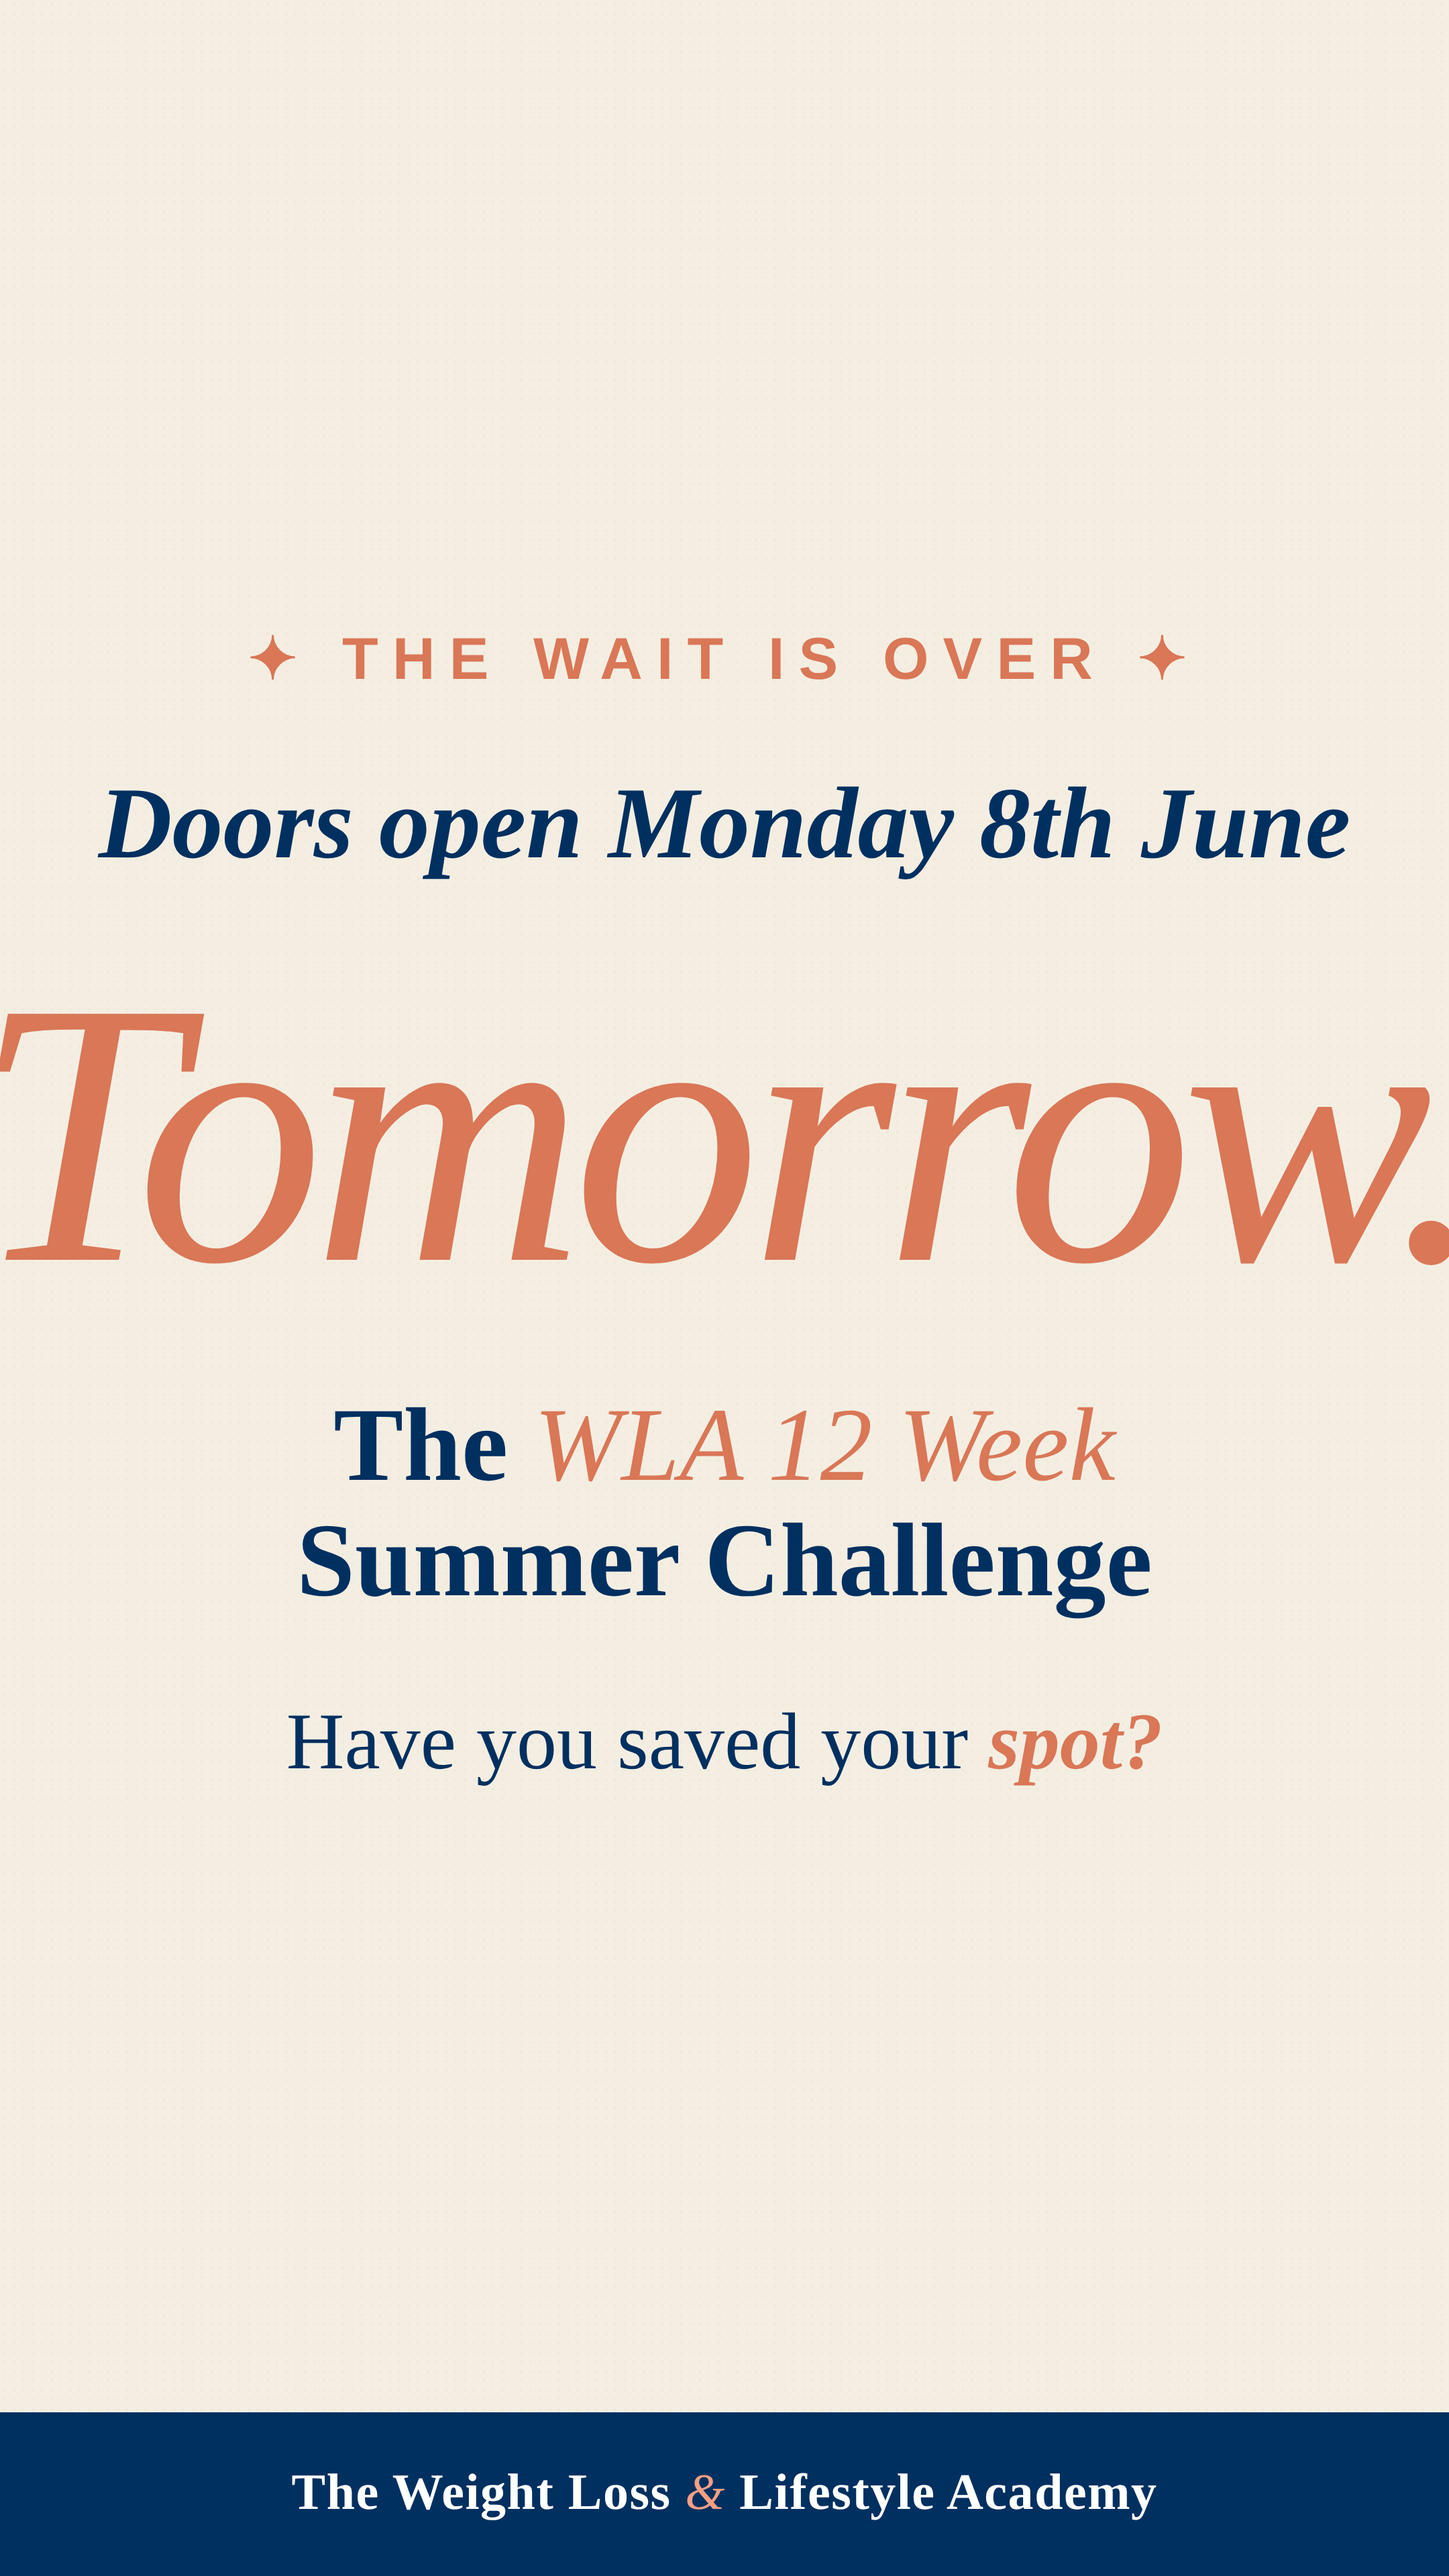
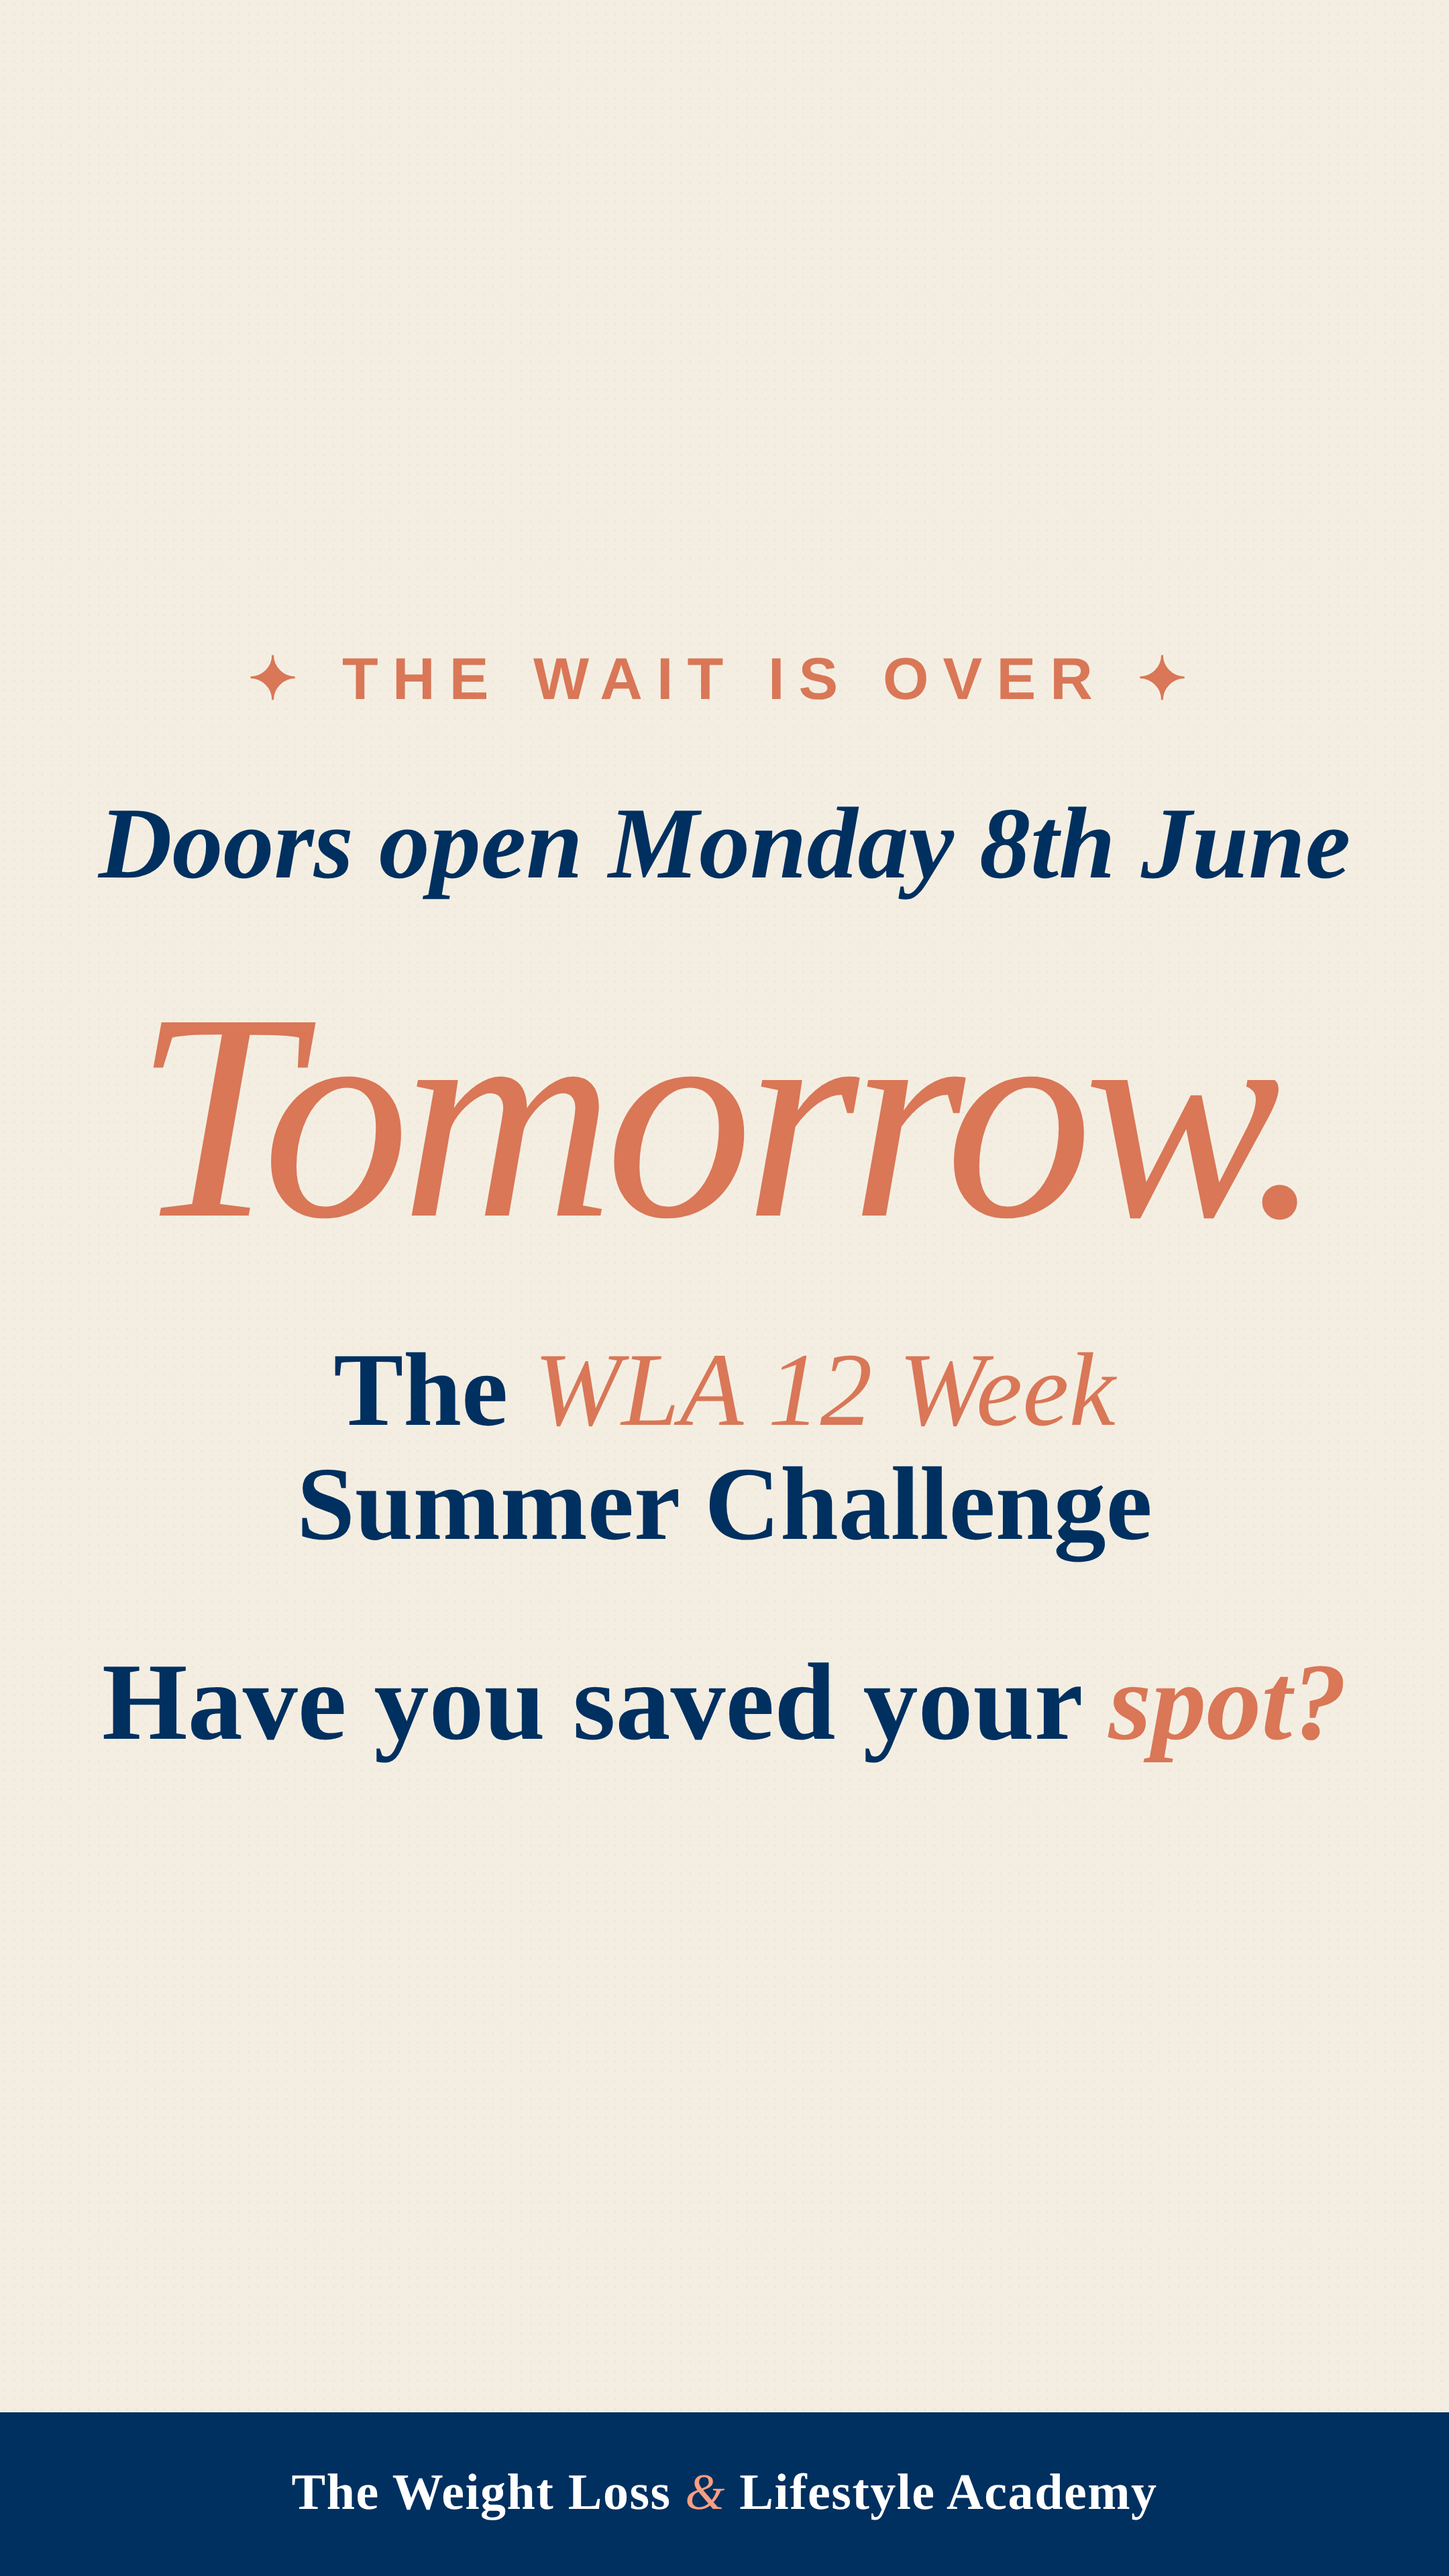
summer-challenge-stories: readability pass v2
- 01-tomorrow: 'Tomorrow.' 280 -> 220 (off the edges); 'Have you saved your spot?' 60 -> 82 + weight 500 -> 700
- 02-spots-left: 'Filling Fast' 50 -> 72; '50' 400 -> 360 (fits cleaner); 'Doors close at midnight' 70 -> 92; 'Once they're gone, they're gone' 60 -> 78 + weight 500 -> 700
- 03-still-time: checkpills 58 -> 72 (tick 64 -> 78, font 36 -> 44); 'Lock in your spot now' 68 -> 92
- 04-tap-to-join: 'Less than 50 spots left.' 64 -> 80; 'Doors close at midnight.' 56 -> 72 + weight 700; swap outline arrow for a chunky solid coral arrow shape; sticker zone now empty (no mock pill) so user can drop their IG link sticker straight on it

diff --git a/summer-challenge-stories/04-tap-to-join.html b/summer-challenge-stories/04-tap-to-join.html
@@ -20,18 +20,16 @@
   .eyebrow { font-family: "Alegreya Sans", sans-serif; font-weight: 800; letter-spacing: 0.22em; text-transform: uppercase; font-size: 44px; color: var(--coral); margin-bottom: 38px; }
   .hero { font-family: 'Libre Baskerville', serif; font-weight: 700; color: var(--navy-deep); font-size: 220px; line-height: 0.95; letter-spacing: -0.025em; margin: 0 0 38px; }
   .hero em { color: var(--coral); font-style: italic; font-weight: 500; }
-  .sub-strong { font-family: 'Libre Baskerville', serif; font-style: italic; font-weight: 700; color: var(--coral); font-size: 64px; line-height: 1.2; margin: 0 0 8px; }
-  .sub { font-family: 'Libre Baskerville', serif; font-style: italic; color: var(--navy-deep); font-size: 56px; line-height: 1.25; margin: 0; }
+  .sub-strong { font-family: 'Libre Baskerville', serif; font-style: italic; font-weight: 700; color: var(--coral); font-size: 80px; line-height: 1.2; margin: 0 0 10px; }
+  .sub { font-family: 'Libre Baskerville', serif; font-style: italic; color: var(--navy-deep); font-size: 72px; line-height: 1.25; margin: 0; font-weight: 700; }
 
   .arrow-row { display: flex; flex-direction: column; align-items: center; gap: 22px; margin-top: auto; padding-top: 60px; }
   .tap-label { font-family: "Alegreya Sans", sans-serif; font-weight: 800; letter-spacing: 0.22em; text-transform: uppercase; font-size: 44px; color: var(--navy-deep); }
-  .arrow { color: var(--coral); animation: bounce 1.8s ease-in-out infinite; }
-  .arrow svg { width: 220px; height: 280px; stroke: var(--coral); fill: none; stroke-width: 14; stroke-linecap: round; stroke-linejoin: round; }
-  @keyframes bounce { 0%, 100% { transform: translateY(0); } 50% { transform: translateY(20px); } }
+  .arrow { color: var(--coral); }
+  .arrow svg { width: 240px; height: 280px; display: block; }
 
-  .sticker-zone { background: rgba(0,48,96,0.06); border: 3px dashed rgba(0,48,96,0.22); border-radius: 28px; padding: 38px 30px; display: flex; flex-direction: column; align-items: center; gap: 14px; margin-top: 26px; }
-  .sticker-zone .note { font-family: 'Libre Baskerville', serif; font-style: italic; font-size: 32px; color: var(--navy-deep); opacity: 0.55; }
-  .sticker-zone .ig-pill { padding: 22px 44px; background: var(--navy-deep); color: #fff; border-radius: 999px; font-family: "Alegreya Sans", sans-serif; font-weight: 800; font-size: 42px; letter-spacing: 0.04em; display: inline-flex; align-items: center; gap: 14px; }
+  .sticker-zone { background: rgba(0,48,96,0.04); border: 3px dashed rgba(0,48,96,0.22); border-radius: 28px; height: 200px; display: flex; align-items: center; justify-content: center; margin-top: 18px; }
+  .sticker-zone .note { font-family: 'Libre Baskerville', serif; font-style: italic; font-size: 30px; color: var(--navy-deep); opacity: 0.45; }
 
   .brand-bar { background: var(--navy-deep); color: #fff; text-align: center; padding: 38px 30px; font-family: 'Libre Baskerville', serif; font-weight: 700; font-size: 38px; letter-spacing: 0.02em; line-height: 1.2; }
   .brand-bar em { color: var(--coral-salmon); font-style: italic; font-weight: 500; }
@@ -47,9 +45,12 @@
 
     <div class="arrow-row">
       <div class="tap-label">Tap the link below</div>
-      <div class="arrow"><svg viewBox="0 0 24 32" aria-hidden="true"><line x1="12" y1="2" x2="12" y2="26"/><polyline points="4 18 12 28 20 18"/></svg></div>
+      <div class="arrow">
+        <svg viewBox="0 0 200 240" aria-hidden="true">
+          <path d="M70 0 L130 0 L130 120 L185 120 L100 230 L15 120 L70 120 Z" fill="#d97757"/>
+        </svg>
+      </div>
       <div class="sticker-zone">
-        <span class="ig-pill">🔗 Join Summer Challenge</span>
         <span class="note">place the IG link sticker here</span>
       </div>
     </div>

diff --git a/summer-challenge-stories/02-spots-left.html b/summer-challenge-stories/02-spots-left.html
@@ -17,13 +17,13 @@
   .ad > * { position: relative; z-index: 1; }
 
   .body { flex: 1; display: flex; flex-direction: column; justify-content: center; align-items: center; padding: 80px 70px; text-align: center; gap: 60px; }
-  .eyebrow { font-family: "Alegreya Sans", sans-serif; font-weight: 800; letter-spacing: 0.22em; text-transform: uppercase; font-size: 50px; color: var(--coral); }
+  .eyebrow { font-family: "Alegreya Sans", sans-serif; font-weight: 800; letter-spacing: 0.22em; text-transform: uppercase; font-size: 72px; color: var(--coral); }
   .lt { font-family: 'Libre Baskerville', serif; font-weight: 700; color: var(--navy-deep); font-size: 110px; line-height: 1.0; letter-spacing: -0.02em; margin: 0; }
-  .big-num { font-family: 'Libre Baskerville', serif; color: var(--coral); font-style: italic; font-weight: 500; font-size: 400px; line-height: 0.85; margin: 0; letter-spacing: -0.04em; }
+  .big-num { font-family: 'Libre Baskerville', serif; color: var(--coral); font-style: italic; font-weight: 500; font-size: 360px; line-height: 0.85; margin: 0; letter-spacing: -0.04em; }
   .spots { font-family: 'Libre Baskerville', serif; font-weight: 700; color: var(--navy-deep); font-size: 110px; line-height: 1.0; margin: 0; }
-  .close { font-family: 'Libre Baskerville', serif; font-style: italic; font-weight: 700; color: var(--navy-deep); font-size: 70px; line-height: 1.15; margin: 0; }
+  .close { font-family: 'Libre Baskerville', serif; font-style: italic; font-weight: 700; color: var(--navy-deep); font-size: 92px; line-height: 1.15; margin: 0; }
   .close em { color: var(--coral); font-style: italic; font-weight: 700; }
-  .gone { font-family: 'Libre Baskerville', serif; font-size: 60px; line-height: 1.2; color: var(--navy-deep); font-weight: 500; margin: 0; font-style: italic; }
+  .gone { font-family: 'Libre Baskerville', serif; font-size: 78px; line-height: 1.2; color: var(--navy-deep); font-weight: 700; margin: 0; font-style: italic; }
   .gone em { color: var(--coral); font-style: italic; font-weight: 700; }
 
   .brand-bar { background: var(--navy-deep); color: #fff; text-align: center; padding: 38px 30px; font-family: 'Libre Baskerville', serif; font-weight: 700; font-size: 38px; letter-spacing: 0.02em; line-height: 1.2; }

diff --git a/summer-challenge-stories/03-still-time.html b/summer-challenge-stories/03-still-time.html
@@ -22,10 +22,10 @@
   .hero { font-family: 'Libre Baskerville', serif; font-weight: 700; color: #fff; font-size: 168px; line-height: 0.98; letter-spacing: -0.02em; margin: 0; }
   .hero em { color: var(--coral-salmon); font-style: italic; font-weight: 500; }
   .pill-row { display: flex; flex-direction: column; gap: 26px; width: 100%; align-items: center; }
-  .checkpill { display: inline-flex; align-items: center; gap: 26px; padding: 32px 50px; background: rgba(255,255,255,0.10); border: 2px solid rgba(255,255,255,0.22); border-radius: 999px; font-family: 'Libre Baskerville', serif; font-size: 58px; color: #fff; font-weight: 500; line-height: 1.15; }
+  .checkpill { display: inline-flex; align-items: center; gap: 28px; padding: 36px 56px; background: rgba(255,255,255,0.10); border: 2px solid rgba(255,255,255,0.22); border-radius: 999px; font-family: 'Libre Baskerville', serif; font-size: 72px; color: #fff; font-weight: 500; line-height: 1.15; }
   .checkpill em { color: var(--coral-salmon); font-style: italic; font-weight: 500; }
-  .checkpill .tick { width: 64px; height: 64px; border-radius: 50%; background: var(--coral); color: #fff; display: grid; place-items: center; flex: none; font-family: "Alegreya Sans", sans-serif; font-weight: 800; font-size: 36px; }
-  .lock-line { font-family: 'Libre Baskerville', serif; font-style: italic; font-weight: 700; color: var(--coral-salmon); font-size: 68px; line-height: 1.15; margin: 0; }
+  .checkpill .tick { width: 78px; height: 78px; border-radius: 50%; background: var(--coral); color: #fff; display: grid; place-items: center; flex: none; font-family: "Alegreya Sans", sans-serif; font-weight: 800; font-size: 44px; }
+  .lock-line { font-family: 'Libre Baskerville', serif; font-style: italic; font-weight: 700; color: var(--coral-salmon); font-size: 92px; line-height: 1.15; margin: 0; }
 
   .brand-bar { background: var(--coral); color: #fff; text-align: center; padding: 38px 30px; font-family: 'Libre Baskerville', serif; font-weight: 700; font-size: 38px; letter-spacing: 0.02em; line-height: 1.2; }
   .brand-bar em { color: #fff; font-style: italic; font-weight: 500; opacity: 0.9; }

diff --git a/summer-challenge-stories/01-tomorrow.html b/summer-challenge-stories/01-tomorrow.html
@@ -19,10 +19,10 @@
   .body { flex: 1; display: flex; flex-direction: column; justify-content: center; align-items: center; padding: 80px 70px; text-align: center; gap: 56px; }
   .eyebrow { font-family: "Alegreya Sans", sans-serif; font-weight: 800; letter-spacing: 0.24em; text-transform: uppercase; font-size: 44px; color: var(--coral); }
   .open { font-family: 'Libre Baskerville', serif; font-style: italic; font-weight: 700; color: var(--navy-deep); font-size: 76px; line-height: 1.1; margin: 0; }
-  .hero { font-family: 'Libre Baskerville', serif; font-weight: 700; color: var(--coral); font-size: 280px; line-height: 0.95; letter-spacing: -0.03em; margin: 0; font-style: italic; font-weight: 500; }
+  .hero { font-family: 'Libre Baskerville', serif; color: var(--coral); font-size: 220px; line-height: 0.95; letter-spacing: -0.03em; margin: 0; font-style: italic; font-weight: 500; }
   .sub { font-family: 'Libre Baskerville', serif; font-size: 78px; line-height: 1.1; color: var(--navy-deep); font-weight: 700; margin: 0; }
   .sub em { color: var(--coral); font-style: italic; font-weight: 500; }
-  .qline { font-family: 'Libre Baskerville', serif; font-size: 60px; line-height: 1.2; color: var(--navy-deep); font-weight: 500; margin: 0; }
+  .qline { font-family: 'Libre Baskerville', serif; font-size: 82px; line-height: 1.2; color: var(--navy-deep); font-weight: 700; margin: 0; }
   .qline em { color: var(--coral); font-style: italic; font-weight: 700; }
 
   .brand-bar { background: var(--navy-deep); color: #fff; text-align: center; padding: 38px 30px; font-family: 'Libre Baskerville', serif; font-weight: 700; font-size: 38px; letter-spacing: 0.02em; line-height: 1.2; }
